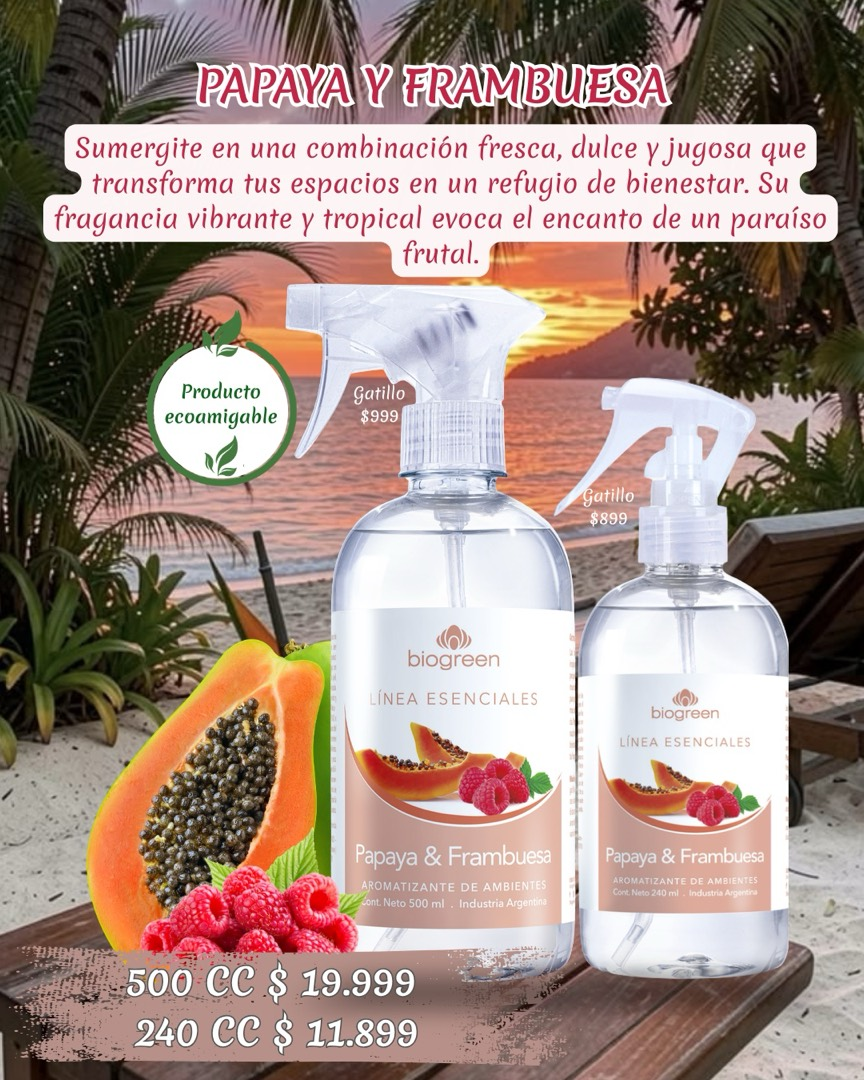
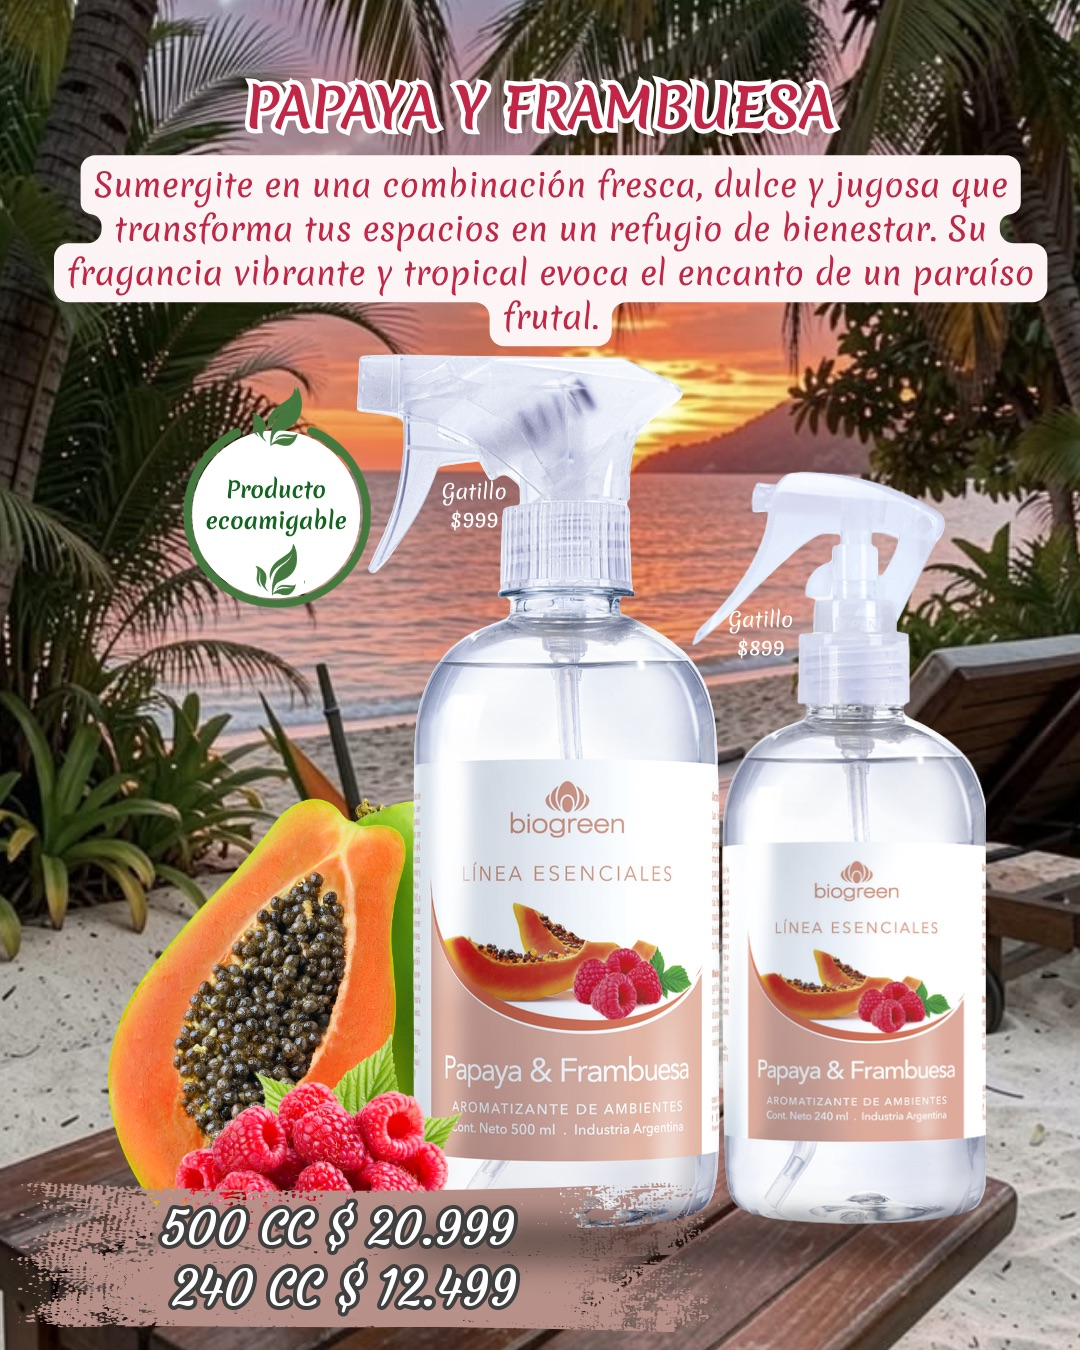
Línea Esenciales: placas nuevas con precios actualizados y Océano & Savia

Changed region(s): [[0.125, 0.8861, 0.5, 0.9778], [0.1875, 0.1528, 0.2188, 0.1833]]

diff --git a/lineas.js b/lineas.js
@@ -2,22 +2,23 @@
    {archivo: "fotos/lineas/...jpg", texto: "Nombre del producto · $precio"} */
 window.LINEAS = [
   {nombre: "Línea Esenciales", fotos: [
-    {archivo: "fotos/lineas/esenciales/capullos-de-lino.jpg", texto: "Capullos de Lino · 500 ml $19.999 · 240 ml $11.899 🌿"},
-    {archivo: "fotos/lineas/esenciales/mango-y-anana.jpg", texto: "Mango & Ananá · 500 ml $19.999 · 240 ml $11.899 🌿"},
-    {archivo: "fotos/lineas/esenciales/nardos-y-magnolias.jpg", texto: "Nardos & Magnolias · 500 ml $15.999 · 240 ml $9.599 🌿"},
-    {archivo: "fotos/lineas/esenciales/praline-y-rosa-china.jpg", texto: "Praliné & Rosa China · 500 ml $19.999 · 240 ml $11.899 🌿"},
-    {archivo: "fotos/lineas/esenciales/lima-y-menta.jpg", texto: "Lima & Menta · 500 ml $19.999 · 240 ml $11.899 🌿"},
-    {archivo: "fotos/lineas/esenciales/cedro-y-jazmin.jpg", texto: "Cedro & Jazmín · 500 ml $19.999 · 240 ml $11.899 🌿"},
-    {archivo: "fotos/lineas/esenciales/asarina.jpg", texto: "Asarina · 500 ml $19.999 · 240 ml $11.899 🌿"},
-    {archivo: "fotos/lineas/esenciales/lavanda.jpg", texto: "Lavanda · 500 ml $19.999 · 240 ml $11.899 🌿"},
-    {archivo: "fotos/lineas/esenciales/jengibre-limon-y-rosas.jpg", texto: "Jengibre, Limón & Rosas · 500 ml $19.999 · 240 ml $11.899 🌿"},
-    {archivo: "fotos/lineas/esenciales/glicinas-y-violetas.jpg", texto: "Glicinas & Violetas · 500 ml $19.999 · 240 ml $11.899 🌿"},
-    {archivo: "fotos/lineas/esenciales/verbena-y-petitgrain.jpg", texto: "Verbena & Petitgrain · 500 ml $19.999 · 240 ml $11.899 🌿"},
-    {archivo: "fotos/lineas/esenciales/te-verde-y-cedron.jpg", texto: "Té Verde & Cedrón · 500 ml $19.999 · 240 ml $11.899 🌿"},
-    {archivo: "fotos/lineas/esenciales/vainilla-y-caramelo.jpg", texto: "Vainilla & Caramelo · 500 ml $19.999 · 240 ml $11.899 🌿"},
-    {archivo: "fotos/lineas/esenciales/peonias-y-oud.jpg", texto: "Peonías & Oud · 500 ml $19.999 · 240 ml $11.899 🌿"},
-    {archivo: "fotos/lineas/esenciales/papaya-y-frambuesa.jpg", texto: "Papaya & Frambuesa · 500 ml $19.999 · 240 ml $11.899 🌿"},
-    {archivo: "fotos/lineas/esenciales/coco-y-avellanas.jpg", texto: "Coco & Avellanas · 500 ml $19.999 · 240 ml $11.899 🌿"}
+    {archivo: "fotos/lineas/esenciales/capullos-de-lino.jpg", texto: "Capullos de Lino · 500 ml $20.999 · 240 ml $12.499 🌿"},
+    {archivo: "fotos/lineas/esenciales/glicinas-y-violetas.jpg", texto: "Glicinas & Violetas · 500 ml $20.999 · 240 ml $12.499 🌿"},
+    {archivo: "fotos/lineas/esenciales/lavanda.jpg", texto: "Lavanda · 500 ml $20.999 · 240 ml $12.499 🌿"},
+    {archivo: "fotos/lineas/esenciales/nardos-y-magnolias.jpg", texto: "Nardos & Magnolias · 500 ml $20.999 · 240 ml $12.499 🌿"},
+    {archivo: "fotos/lineas/esenciales/asarina.jpg", texto: "Asarina · 500 ml $20.999 · 240 ml $12.499 🌿"},
+    {archivo: "fotos/lineas/esenciales/cedro-y-jazmin.jpg", texto: "Cedro & Jazmín · 500 ml $20.999 · 240 ml $12.499 🌿"},
+    {archivo: "fotos/lineas/esenciales/oceano-y-savia.jpg", texto: "Océano & Savia · 500 ml $20.999 · 240 ml $12.499 🌿"},
+    {archivo: "fotos/lineas/esenciales/peonias-y-oud.jpg", texto: "Peonías & Oud · 500 ml $20.999 · 240 ml $12.499 🌿"},
+    {archivo: "fotos/lineas/esenciales/jengibre-limon-y-rosas.jpg", texto: "Jengibre, Limón & Rosas · 500 ml $20.999 · 240 ml $12.499 🌿"},
+    {archivo: "fotos/lineas/esenciales/praline-y-rosa-china.jpg", texto: "Praliné & Rosa China · 500 ml $20.999 · 240 ml $12.499 🌿"},
+    {archivo: "fotos/lineas/esenciales/vainilla-y-caramelo.jpg", texto: "Vainilla & Caramelo · 500 ml $20.999 · 240 ml $12.499 🌿"},
+    {archivo: "fotos/lineas/esenciales/coco-y-avellanas.jpg", texto: "Coco & Avellanas · 500 ml $20.999 · 240 ml $12.499 🌿"},
+    {archivo: "fotos/lineas/esenciales/lima-y-menta.jpg", texto: "Lima & Menta · 500 ml $20.999 · 240 ml $12.499 🌿"},
+    {archivo: "fotos/lineas/esenciales/verbena-y-petitgrain.jpg", texto: "Verbena & Petitgrain · 500 ml $20.999 · 240 ml $12.499 🌿"},
+    {archivo: "fotos/lineas/esenciales/te-verde-y-cedron.jpg", texto: "Té Verde & Cedrón · 500 ml $20.999 · 240 ml $12.499 🌿"},
+    {archivo: "fotos/lineas/esenciales/mango-y-anana.jpg", texto: "Mango & Ananá · 500 ml $20.999 · 240 ml $12.499 🌿"},
+    {archivo: "fotos/lineas/esenciales/papaya-y-frambuesa.jpg", texto: "Papaya & Frambuesa · 500 ml $20.999 · 240 ml $12.499 🌿"}
   ]},
   {nombre: "Botica Natural", fotos: []},
   {nombre: "Fragancias BE Masculinas", fotos: []},
